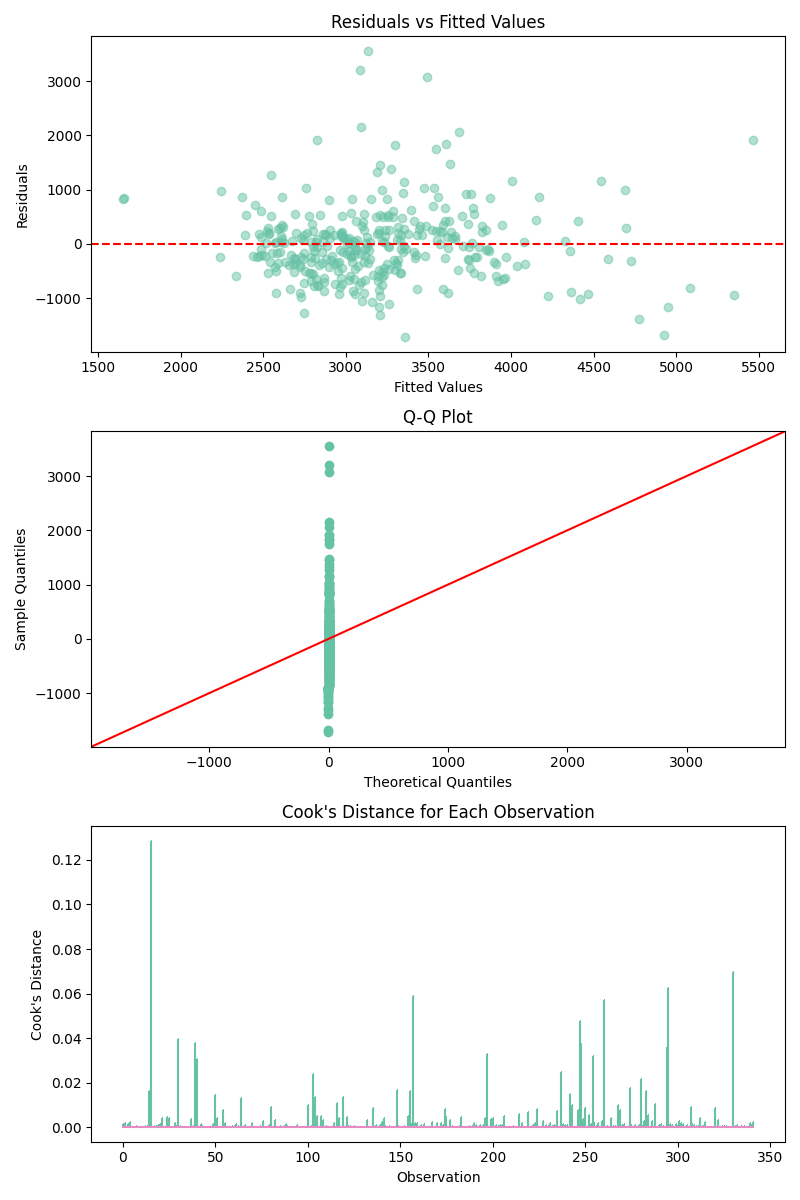
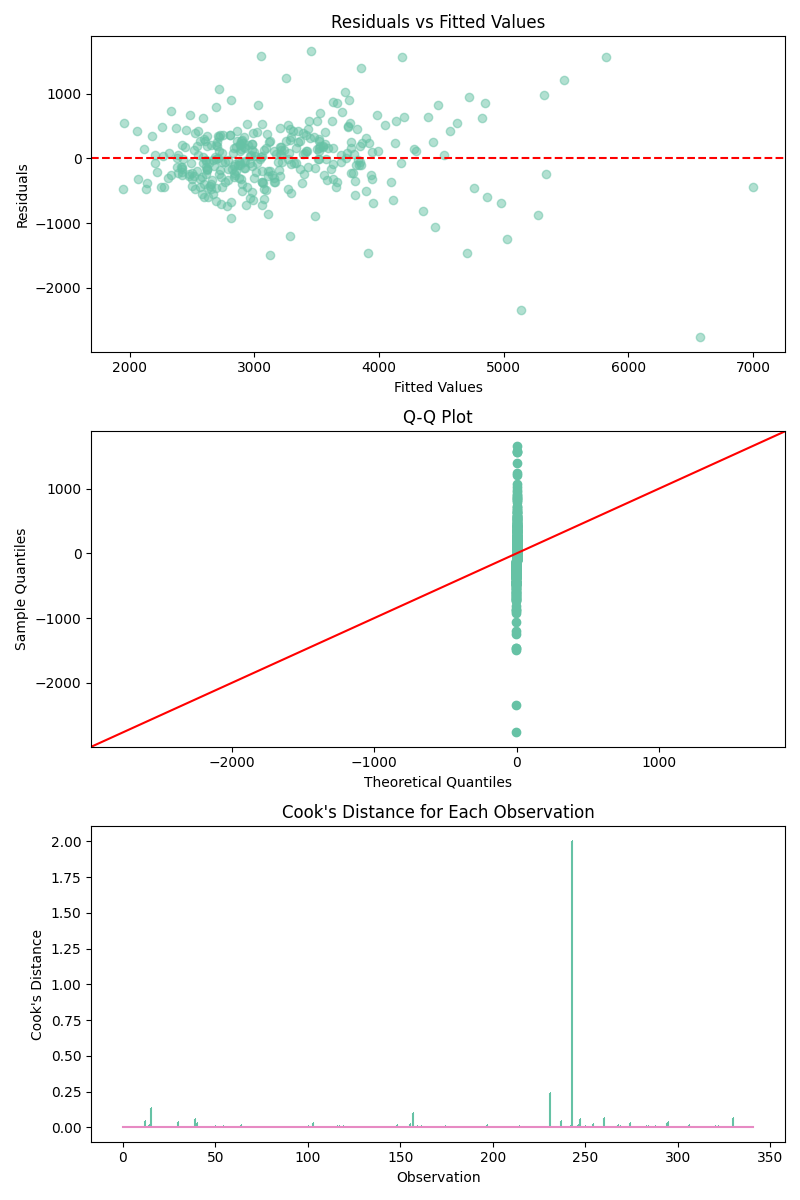
create comparison plots for models

diff --git a/src/analysis/phase_1/regressions.py b/src/analysis/phase_1/regressions.py
@@ -7,7 +7,7 @@ import logging
 from src.analysis.phase_1.tables import create_reg_summaries
 from src.analysis.utils import calculate_vif_and_condition_indices, residual_analysis, dir_path
 
-def regression(X: pd.DataFrame, y: pd.Series) -> tuple[sm.regression.linear_model.RegressionResultsWrapper, pd.DataFrame, np.ndarray]:
+def regression(X: pd.DataFrame, y: pd.Series) -> tuple[sm.regression.linear_model.RegressionResultsWrapper, pd.DataFrame, np.ndarray, float]:
     """
     Perform a multiple linear regression.
 
@@ -20,11 +20,15 @@ def regression(X: pd.DataFrame, y: pd.Series) -> tuple[sm.regression.linear_mode
         pd.DataFrame: The VIF values for each predictor.
         np.ndarray: The condition indices.
     """
+    # make sure 'has_station' is an integer
+    X['has_station'] = X['has_station'].astype(int)
+
     X = sm.add_constant(X)
     model = sm.OLS(y, X).fit()
+    bic = model.bic
     vif, cond_indices = calculate_vif_and_condition_indices(X)
     
-    return model, vif, cond_indices
+    return model, vif, cond_indices, bic
 
 def simple(df: pd.DataFrame) -> None:
     """
@@ -36,16 +40,16 @@ def simple(df: pd.DataFrame) -> None:
     Returns:
         None
     """
-    X = df[['has_station', 'multy_family', 'homes_per_capita', 'distance_to_urban_center']]
+    X = df[['has_station','avg_income', 'multy_family', 'homes_per_capita', 'distance_to_urban_center']]
     X = sm.add_constant(X)
 
     y = df['m2_price']
 
-    model, vif, cond_indices = regression(X, y)
+    model, vif, cond_indices, bic = regression(X, y)
 
     residual_analysis(model, 'phase_1/simple_residuals.png')
     
-    return model, vif, cond_indices
+    return model, vif, cond_indices, bic
 
 def standardized(df: pd.DataFrame) -> None:
     """
@@ -69,9 +73,9 @@ def standardized(df: pd.DataFrame) -> None:
 
     y = df['m2_price']
 
-    model, vif, cond_indices = regression(X, y)
+    model, vif, cond_indices, bic = regression(X, y)
     
-    return model, vif, cond_indices
+    return model, vif, cond_indices, bic
 
 def log_transformed(df: pd.DataFrame) -> None:
     """
@@ -87,11 +91,11 @@ def log_transformed(df: pd.DataFrame) -> None:
 
     y = df['log_m2_price']
 
-    model, vif, cond_indices = regression(X, y)
+    model, vif, cond_indices, bic = regression(X, y)
 
     residual_analysis(model, 'phase_1/controls_log_residuals.png')
     
-    return model, vif, cond_indices
+    return model, vif, cond_indices, bic
 
 def log_standardized(df: pd.DataFrame) -> None:
     """
@@ -115,11 +119,11 @@ def log_standardized(df: pd.DataFrame) -> None:
 
     y = df['log_m2_price']
 
-    model, vif, cond_indices = regression(X, y)
+    model, vif, cond_indices, bic = regression(X, y)
     
-    return model, vif, cond_indices
+    return model, vif, cond_indices, bic
 
-def interaction_terms(df: pd.DataFrame) -> None:
+def log_interaction_terms(df: pd.DataFrame) -> None:
     """
     Perform a multiple linear regression with interaction terms.
 
@@ -133,11 +137,11 @@ def interaction_terms(df: pd.DataFrame) -> None:
 
     y = df['log_m2_price']
 
-    model, vif, cond_indices = regression(X, y)
+    model, vif, cond_indices, bic = regression(X, y)
     
-    return model, vif, cond_indices
+    return model, vif, cond_indices, bic
 
-def interaction_terms_standardized(df: pd.DataFrame) -> None:
+def log_interaction_terms_standardized(df: pd.DataFrame) -> None:
     """
     Perform a multiple linear regression with standardized interaction terms.
 
@@ -159,11 +163,49 @@ def interaction_terms_standardized(df: pd.DataFrame) -> None:
 
     y = df['log_m2_price']
 
-    model, vif, cond_indices = regression(X, y)
+    model, vif, cond_indices, bic = regression(X, y)
     
-    return model, vif, cond_indices
+    return model, vif, cond_indices, bic
 
 output_path = os.path.join(dir_path, '../../output/tables/phase_1')
+
+def create_score_summaries(df: pd.DataFrame) -> tuple[dict, dict]:
+    """
+    Create summaries of VIFs, condition indices, and BIC scores for the models.
+
+    Parameters:
+        df (pd.DataFrame): The phase 1 dataset.
+    
+    Returns:
+        dict: Dictionary with the results for the non-log models.
+        dict: Dictionary with the results for the log models.
+    """
+    non_log_results = {}
+    log_results = {}
+    models = {
+        "simple": simple,
+        "standardized": standardized,
+        "log_transformed": log_transformed,
+        "log_standardized": log_standardized,
+        "log_interaction_terms": log_interaction_terms,
+        "log_interaction_terms_standardized": log_interaction_terms_standardized
+    }
+
+    logging.info("Summarizing VIFs, condition indices, and BIC scores for the models...")
+
+    for name, func in models.items():
+        model, vif, cond_indices, bic = func(df)
+        # remove const from vif and cond_indices
+        vif = vif[vif['feature'] != 'const']
+        cond_indices = cond_indices[cond_indices != cond_indices[0]]
+
+        if "log" in name:
+            log_results[name] = {"model": model, "vif": vif, "cond_indices": cond_indices, "bic": bic}
+        else:
+            non_log_results[name] = {"model": model, "vif": vif, "cond_indices": cond_indices, "bic": bic}
+
+    return non_log_results, log_results
+
 
 def run_phase_1_regressions(df: pd.DataFrame) -> None:
     """
@@ -177,22 +219,20 @@ def run_phase_1_regressions(df: pd.DataFrame) -> None:
     """
     logging.info("Running Phase 1 regressions...")
 
-    # just to make sure the variable is binary
-    df['has_station'] = df['has_station'].astype(int)
-
-    simple_model, simple_vif, simple_cond_indices = simple(df)
-    controls_standardized_model, controls_standardized_vif, controls_standardized_cond_indices = standardized(df)
+    # extract only model from tuple
+    simple_model, _, _, _= simple(df)
+    controls_standardized_model, _, _, _ = standardized(df)
 
     logging.info("Creating summaries for Phase 1 simple models...")
     create_reg_summaries(simple_model, controls_standardized_model, output_file=os.path.join(output_path, 'regression_summaries.tex'))
 
-    controls_log_model, controls_log_vif, controls_log_cond_indices = log_transformed(df)
-    controls_log_standardized_model, controls_log_standardized_vif, controls_log_standardized_cond_indices = log_standardized(df)
-    interaction_terms_model, interaction_terms_vif, interaction_terms_cond_indices = interaction_terms(df)
-    interaction_terms_standardized_model, interaction_terms_standardized_vif, interaction_terms_standardized_cond_indices = interaction_terms_standardized(df)
+    controls_log_model, _, _, _ = log_transformed(df)
+    controls_log_standardized_model, _, _, _= log_standardized(df)
+    interaction_terms_model, _, _, _= log_interaction_terms(df)
+    interaction_terms_standardized_model, _, _, _ = log_interaction_terms_standardized(df)
 
     logging.info("Creating summaries for Phase 1 log models...")
     create_reg_summaries(controls_log_model, controls_log_standardized_model, interaction_terms_model, interaction_terms_standardized_model, output_file=os.path.join(output_path, 'regression_summaries_log.tex'))
-    
-    # TODO: Save the results
+
+    logging.info("Phase 1 regressions complete.")
 

diff --git a/src/analysis/phase_1/plots.py b/src/analysis/phase_1/plots.py
@@ -4,6 +4,7 @@ import matplotlib.pyplot as plt
 import pandas as pd
 import os
 import logging
+from src.analysis.phase_1.regressions import create_score_summaries
 from src.analysis.utils import dir_path, phase_1_vars, phase_1_log
 
 output_path = os.path.join(dir_path, '../../output/figures/phase_1')
@@ -139,6 +140,62 @@ def updated_log_corr_heatmap(df: pd.DataFrame) -> None:
 
     plt.savefig(os.path.join(output_path, 'log_corr_heatmap.png'))
 
+def visualize_model_scores(results: dict, title: str) -> None:
+    """
+    Visualize the VIFs, condition indices, and BIC scores for the models.
+
+    Parameters:
+        results: Dictionary with the results of the models.
+        title: Title for the plots
+    
+    Returns:
+        None
+    """
+    fig, axes = plt.subplots(nrows=3, ncols=1, figsize=(10, 15), dpi=120)
+
+    # VIFs
+    vif_data_list = []
+    for name, data in results.items():
+        if 'vif' in data and not pd.DataFrame(data['vif']).empty:
+            vif_data = pd.DataFrame(data['vif'])
+            vif_data['log_VIF'] = np.log10(vif_data['VIF'])
+            vif_data['Model'] = name
+            vif_data_list.append(vif_data)
+
+    if vif_data_list:
+        full_vif_data = pd.concat(vif_data_list)
+        sns.barplot(x='log_VIF', y='feature', hue='Model', data=full_vif_data, ax=axes[0])
+        axes[0].set_title(f'Log-Scaled VIFs for {title}')
+        axes[0].set_xlabel("Log10 (VIF)")
+    
+    # Condition Indices
+    cond_indices_list = [{
+        "Model": name,
+        "Condition Index": idx
+    } for name, data in results.items() if 'cond_indices' in data for idx in np.log10(data['cond_indices'])]
+
+    if cond_indices_list:
+        cond_indices_data = pd.DataFrame(cond_indices_list)
+        sns.barplot(x='Condition Index', y='Model', data=cond_indices_data, ax=axes[1])
+        axes[1].set_title(f'Log-Scaled Condition Indices for {title}')
+        axes[1].set_xlabel("Log10 (Condition Index)")
+
+    # BIC Scores
+    bic_list = [{
+        "Model": name,
+        "BIC": data['bic']
+    } for name, data in results.items() if 'bic' in data]
+
+    if bic_list:
+        bic_data = pd.DataFrame(bic_list)
+        sns.barplot(x='BIC', y='Model', data=bic_data, ax=axes[2])
+        axes[2].set_title(f'BIC Scores for {title}')
+        axes[2].set_xlabel("BIC Score")
+    
+    plt.tight_layout()
+    
+    plt.savefig(os.path.join(output_path, f'{title.lower()}_scores.png'))
+
 def create_plots(df: pd.DataFrame) -> None:
     """
     Create plots for the Phase 1 analysis.
@@ -155,3 +212,7 @@ def create_plots(df: pd.DataFrame) -> None:
     correlation_heatmap(df)
     updated_log_corr_heatmap(df)
     plot_distribution(df)
+
+    non_log_scores, log_scores = create_score_summaries(df)
+    visualize_model_scores(non_log_scores, 'Non-Log Models')
+    visualize_model_scores(log_scores, 'Log Models')

diff --git a/output/tables/phase_1/regression_summaries.tex b/output/tables/phase_1/regression_summaries.tex
@@ -9,12 +9,12 @@
         \hline \\[-1.8ex]
      & \textbf{Model 1} & \textbf{Model 2} \\
 \hline \\[-1.8ex] 
-const & 5245.7900 (494.5645)*** & 3196.4453 (27.4261)*** \\
-has\_station & -167.3261 (80.0371)** & -15.9590 (29.5237) \\
-multy\_family & 39.3359 (3.5236)*** & 575.7017 (34.4788)*** \\
-homes\_per\_capita & -5885.2931 (1185.8657)*** & -111.5976 (31.4272)*** \\
-distance\_to\_urban\_center & -7.0309 (1.5831)*** & -69.4360 (30.7728)** \\
-avg\_income & - & 499.3754 (29.6238)*** \\
+const & 181.9637 (472.3880) & 3182.4230 (37.7508)*** \\
+has\_station & -32.1854 (59.5422) & -32.1854 (59.5422) \\
+avg\_income & 95.0323 (5.6375)*** & 499.3754 (29.6238)*** \\
+multy\_family & 43.5726 (2.6096)*** & 575.7017 (34.4788)*** \\
+homes\_per\_capita & -3156.9302 (889.0283)*** & -111.5976 (31.4272)*** \\
+distance\_to\_urban\_center & -2.6964 (1.1950)** & -69.4360 (30.7728)** \\
 
         \hline
         \hline

diff --git a/output/tables/phase_1/regression_summaries_log.tex b/output/tables/phase_1/regression_summaries_log.tex
@@ -9,8 +9,8 @@
         \hline \\[-1.8ex]
      & \textbf{Model 1} & \textbf{Model 2} & \textbf{Model 3} & \textbf{Model 4} \\
 \hline \\[-1.8ex] 
-const & 2.1917 (0.3004)*** & 8.0351 (0.0080)*** & 2.3466 (0.3272)*** & 8.0351 (0.0080)*** \\
-has\_station & -0.0078 (0.0175) & -0.0039 (0.0087) & -0.2240 (0.1622) & -0.1111 (0.0804) \\
+const & 2.1917 (0.3004)*** & 8.0317 (0.0111)*** & 2.3466 (0.3272)*** & 7.9375 (0.0711)*** \\
+has\_station & -0.0078 (0.0175) & -0.0078 (0.0175) & -0.2240 (0.1622) & -0.2240 (0.1622) \\
 log\_avg\_income & 1.2654 (0.0741)*** & 0.1522 (0.0089)*** & 1.2542 (0.0746)*** & 0.1509 (0.0090)*** \\
 log\_multy\_family & 0.3355 (0.0206)*** & 0.1695 (0.0104)*** & 0.3063 (0.0296)*** & 0.1547 (0.0149)*** \\
 log\_homes\_per\_capita & -0.4511 (0.1184)*** & -0.0349 (0.0092)*** & -0.4593 (0.1209)*** & -0.0355 (0.0093)*** \\

diff --git a/main.py b/main.py
@@ -1,4 +1,6 @@
 from logging_config import setup_logging
+import pandas as pd
+pd.options.mode.chained_assignment = None
 
 # Setup colored logging
 setup_logging()
